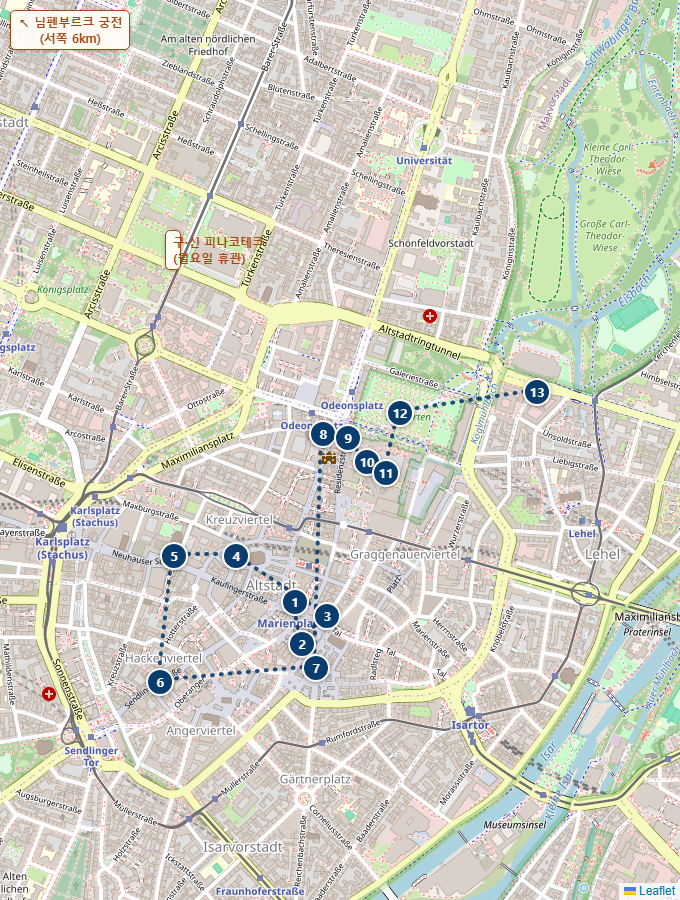
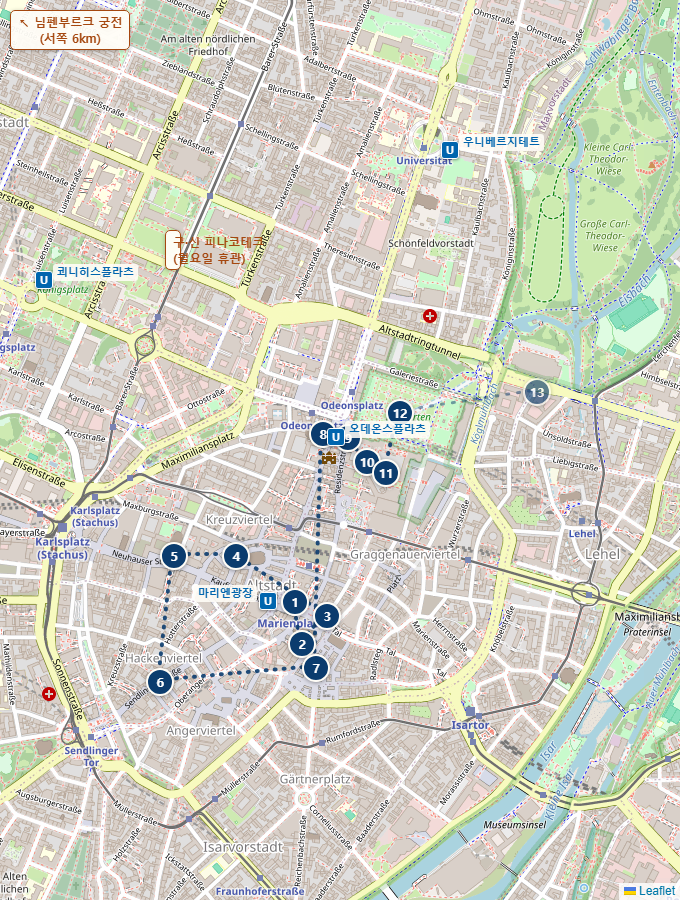
Fix Munich map callout clipping on narrow viewports, mark Englischer Garten as optional with a dashed final segment, add U6 station markers to the map, add stop-number badges to walking-loop landmark cards, bold Universität/Odeonsplatz on the U-Bahn diagram, and simplify the Oktoberfest transit note

diff --git a/germany-roadtrip-planner.html b/germany-roadtrip-planner.html
@@ -418,6 +418,7 @@
   .booking-note .cash-note{ margin-top:0.5rem; padding-top:0.5rem; border-top:1px dashed var(--warn); }
   .landmark-body{ padding:1rem 1.1rem 1.2rem; display:flex; flex-direction:column; gap:0.6rem; }
   .landmark-body h3{ margin:0; font-size:1.02rem; }
+  .stop-num{ display:inline-flex; align-items:center; justify-content:center; width:1.35rem; height:1.35rem; border-radius:50%; background:var(--route); color:#fff; font-size:0.72rem; font-weight:800; margin-right:0.4rem; vertical-align:middle; flex:none; }
   .landmark-desc{ margin:0; font-size:0.88rem; color:var(--ink-soft); }
   .landmark-meta{ font-size:0.8rem; color:var(--ink-soft); }
   .landmark-meta .landmark-price{ color:var(--route); font-weight:700; font-family:"SF Mono","Consolas",monospace; }
@@ -1749,9 +1750,9 @@ document.addEventListener('DOMContentLoaded', function(){
         <p class="cash-note"><b>MVV</b>(Münchner Verkehrs- und Tarifverbund)는 뮌헨 지하철·전철(S-Bahn)·트램·버스를 하나의 요금체계로 묶는 통합 운영기구입니다. <b>MVV 앱</b>은 그 공식 모바일 승차권 앱으로, 역 자판기 대신 휴대폰으로 티켓을 사는 용도입니다 — <a href="https://apps.apple.com/de/app/mvv-app/id388686726?platform=iphone" target="_blank" rel="noopener">iOS 다운로드</a> · <a href="https://play.google.com/store/apps/details?id=com.mdv.companion" target="_blank" rel="noopener">Android 다운로드</a></p>
       </div>
       <div style="grid-column:1/-1;margin:0.6rem 0 1.3rem;border:1px solid var(--line);border-radius:var(--radius);overflow:hidden;box-shadow:var(--shadow);background:#fff;">
-        <img src="images/muenchen_ubahn_u6.svg" alt="뮌헨 U-Bahn 노선도 — U6 라인과 Fröttmaning·마리엔광장·Goetheplatz 3개 역 강조 표시" loading="lazy" style="width:100%;height:auto;display:block;background:#fff;">      </div>
-      <p class="walk-map-note">🅿 P+R Fröttmaning 주차 후 U6 라인으로 마리엔광장 하차(주차 1일권 €1.50, 지하철 요금 별도) — 아래 명소는 모두 마리엔광장역에서 이어지는 도보권이며 카드 순서대로 이동하면 됩니다. 영국정원에서 도보 코스가 끝나니 U6 라인 우니베르지테트·오데온스플라츠역에서 대중교통으로 복귀하세요. 구 피나코테크·신 피나코테크는 도보권 밖(지도엔 위치만 표시)인 데다 오늘(월)은 둘 다 정기휴관이라 이번엔 들르지 않습니다</p>
-      <a class="walk-map-link" href="https://www.google.com/maps/dir/?api=1&travelmode=walking&origin=48.1370,11.5758&destination=48.1434,11.5859&waypoints=48.1367%2C11.5756%7C48.1374%2C11.5761%7C48.1387%2C11.5730%7C48.1387%2C11.5703%7C48.1351%2C11.5697%7C48.1355%2C11.5764%7C48.1422%2C11.5767%7C48.1421%2C11.5778%7C48.1414%2C11.5786%7C48.1411%2C11.5794%7C48.1428%2C11.5800" target="_blank" rel="noopener">📍 Google 지도로 도보 코스 보기(마리엔광장역 출발 → 영국정원 도착) · 총 약 4.4km · 도보 약 1시간</a>
+        <img src="images/muenchen_ubahn_u6.svg" alt="뮌헨 U-Bahn 노선도 — U6 라인과 Fröttmaning·우니베르지테트·오데온스플라츠·마리엔광장·Goetheplatz 5개 역 강조 표시" loading="lazy" style="width:100%;height:auto;display:block;background:#fff;">      </div>
+      <p class="walk-map-note">🅿 P+R Fröttmaning 주차 후 U6 라인으로 마리엔광장 하차(주차 1일권 €1.50, 지하철 요금 별도) — 아래 명소는 모두 마리엔광장역에서 이어지는 도보권이며 카드 순서대로 이동하면 됩니다. 실질적인 도보 코스는 호프가르텐에서 끝나고, 영국정원은 시간 되면 초입만 살짝 들르는 선택 코스입니다(생략해도 무방) — U6 라인 오데온스플라츠·우니베르지테트역에서 대중교통으로 복귀하세요. 구 피나코테크·신 피나코테크는 도보권 밖(지도엔 위치만 표시)인 데다 오늘(월)은 둘 다 정기휴관이라 이번엔 들르지 않습니다</p>
+      <a class="walk-map-link" href="https://www.google.com/maps/dir/?api=1&travelmode=walking&origin=48.1370,11.5758&destination=48.1428,11.5800&waypoints=48.1367%2C11.5756%7C48.1374%2C11.5761%7C48.1387%2C11.5730%7C48.1387%2C11.5703%7C48.1351%2C11.5697%7C48.1355%2C11.5764%7C48.1422%2C11.5767%7C48.1421%2C11.5778%7C48.1414%2C11.5786%7C48.1411%2C11.5794" target="_blank" rel="noopener">📍 Google 지도로 도보 코스 보기(마리엔광장역 출발 → 호프가르텐 도착) · 총 약 3.8km · 도보 약 49분</a>
       <div class="route-snapshot">
         <div class="route-snapshot-media">
           <img src="images/routes/muenchen.png" alt="뮌헨 도보 코스 지도 스냅샷" loading="lazy">
@@ -1769,14 +1770,14 @@ document.addEventListener('DOMContentLoaded', function(){
         <li><span class="rs-name">레지덴츠 & 보물관</span><span class="rs-seg">(200m, 3분)</span></li>
         <li><span class="rs-name">퀴비예 극장</span><span class="rs-seg">(80m, 1분)</span></li>
         <li><span class="rs-name">호프가르텐</span><span class="rs-seg">(150m, 2분)</span></li>
-        <li><span class="rs-name">영국정원</span><span class="rs-seg">(500m, 7분)</span></li>
+        <li><span class="rs-name">(선택) 영국정원(초입만 또는 생략 가능)</span><span class="rs-seg">(500m, 7분)</span></li>
         </ol>
-        <p style="grid-column:1/-1;font-size:0.78rem;color:var(--ink-soft);margin:0.5rem 0 0;">🚇 영국정원에서 도보로 우니베르지테트 또는 오데온스플라츠역 이동(약 5~7분), 이후 U6 라인 한 번으로 어디든 갈 수 있습니다 — 주차장(Fröttmaning) 복귀 시엔 그대로 진행 방향, 옥토버페스트(Goetheplatz)로 바로 이동 시엔 반대 방향으로 타면 마리엔광장에 내릴 필요 없이 곧장 갑니다(환승 없음)</p>
+        <p style="grid-column:1/-1;font-size:0.78rem;color:var(--ink-soft);margin:0.5rem 0 0;">🚇 호프가르텐(또는 영국정원까지 갔다면 그 자리)에서 도보로 <b>오데온스플라츠</b> 또는 <b>우니베르지테트</b>역 이동(약 3~7분) — 주차장(Fröttmaning) 복귀는 진행 방향 그대로 U6, 옥토버페스트 이동은 아래 "옥토버페스트 축제장 이동" 참고</p>
       </div>
       <div class="landmark-card">
         <img src="https://upload.wikimedia.org/wikipedia/commons/thumb/7/73/Rathaus_and_Marienplatz_from_Peterskirche_-_August_2006.jpg/500px-Rathaus_and_Marienplatz_from_Peterskirche_-_August_2006.jpg" alt="마리엔 광장 & 신시청(Neues Rathaus) 글로켄슈필" loading="lazy">
         <div class="landmark-body">
-        <h3>마리엔 광장 & 신시청(Neues Rathaus) 글로켄슈필</h3>
+        <h3><span class="stop-num">1</span>마리엔 광장 & 신시청(Neues Rathaus) 글로켄슈필</h3>
         <p class="landmark-desc">뮌헨 구시가 중심 광장이자 1867~1908년 지어진 네오고딕 양식 신시청이 있는 곳. 탑에서 매일 정오 열리는 글로켄슈필 인형극이 명물이며, 엘리베이터로 전망대까지 올라가면 마리엔광장과 구시가 전망을 볼 수 있습니다.</p>
         <div class="landmark-meta">글로켄슈필 공연 매일 11:00·12:00 (3–10월엔 17:00 추가) · 전망대 5–10월 매일 10:00–19:00(11–4월은 평일만 10:00–17:00) · <span class="landmark-price">광장 관람 무료, 전망대 성인 약 €6.50(온라인)/€7(현장)</span> · <a href="https://www.muenchen.de/en/sights/munich-glockenspiel" target="_blank" rel="noopener">홈페이지</a> · <a href="https://www.google.com/maps/search/?api=1&query=Neues+Rathaus+Muenchen" target="_blank" rel="noopener">지도</a></div>
         </div>
@@ -1784,7 +1785,7 @@ document.addEventListener('DOMContentLoaded', function(){
       <div class="landmark-card">
         <img src="https://commons.wikimedia.org/wiki/Special:FilePath/2350_-_M%C3%BCnchen_-_St_Peterskirche.JPG?width=500" alt="성 페터 교회" loading="lazy">
         <div class="landmark-body">
-        <h3>성 페터 교회(St. Peterskirche · Alter Peter)</h3>
+        <h3><span class="stop-num">2</span>성 페터 교회(St. Peterskirche · Alter Peter)</h3>
         <p class="landmark-desc">뮌헨에서 가장 오래된 교회. 306개 계단을 오르면 마리엔광장과 맑은 날엔 알프스까지 보이는 전망대가 나옵니다.</p>
         <div class="landmark-meta">교회 07:30–19:30 · <span class="landmark-price">본당 무료, 탑 전망대 €5</span> · <a href="https://www.google.com/maps/search/?api=1&query=St+Peterskirche+Muenchen" target="_blank" rel="noopener">지도</a></div>
         </div>
@@ -1792,7 +1793,7 @@ document.addEventListener('DOMContentLoaded', function(){
       <div class="landmark-card">
         <img src="https://commons.wikimedia.org/wiki/Special:FilePath/Altes_Rathaus_in_M%C3%BCnchen%2C_2023.jpg?width=500" alt="구시청" loading="lazy">
         <div class="landmark-body">
-        <h3>구시청(Altes Rathaus)</h3>
+        <h3><span class="stop-num">3</span>구시청(Altes Rathaus)</h3>
         <p class="landmark-desc">마리엔광장 동쪽에 있는 고딕 양식 옛 시청사. 지금은 탑 안에 장난감박물관이 들어서 있습니다.</p>
         <div class="landmark-meta">외관 상시 관람 · <span class="landmark-price">무료</span> · <a href="https://www.google.com/maps/search/?api=1&query=Altes+Rathaus+Muenchen" target="_blank" rel="noopener">지도</a></div>
         </div>
@@ -1808,7 +1809,7 @@ document.addEventListener('DOMContentLoaded', function(){
       <div class="landmark-card">
         <img src="https://commons.wikimedia.org/wiki/Special:FilePath/Frauenkirche_Munich_March_2013.JPG?width=500" alt="프라우엔교회" loading="lazy">
         <div class="landmark-body">
-        <h3>프라우엔교회(Frauenkirche)</h3>
+        <h3><span class="stop-num">4</span>프라우엔교회(Frauenkirche)</h3>
         <p class="landmark-desc">뮌헨의 상징인 두 개의 양파 지붕 탑이 특징인 후기 고딕 성당입니다.</p>
         <div class="landmark-meta">일반적으로 08:00–20:00 (일요일은 09:30부터, 미사 시간 제외) · <span class="landmark-price">본당 무료</span> · <a href="https://www.muenchner-dom.de" target="_blank" rel="noopener">홈페이지</a> · <a href="https://www.google.com/maps/search/?api=1&query=Frauenkirche+Muenchen" target="_blank" rel="noopener">지도</a></div>
         <div class="meaning-box"><span class="mb-label">👹 악마의 발자국(Teufelstritt)</span>1468년 건축가 외르크 폰 할스파흐는 자금을 대는 대신 "창문이 하나도 안 보이는 성당"을 지으라는 악마의 조건을 받아들였습니다. 완공 후 악마가 입구에서 안을 들여다보니 정말 기둥에 가려 창문이 하나도 안 보이자 기뻐하며 바닥을 발로 굴렀는데, 몇 걸음 더 들어가서야 창문들이 보이는 걸 깨닫고 속았다는 걸 알았다는 전설입니다. 그때 찍힌 검은 발자국 모양 자국이 지금도 입구 바닥 타일에 남아 있어 찾아볼 수 있습니다.</div>
@@ -1817,7 +1818,7 @@ document.addEventListener('DOMContentLoaded', function(){
       <div class="landmark-card">
         <img src="https://commons.wikimedia.org/wiki/Special:FilePath/St._Michael_-_Munich_-_011.JPG?width=500" alt="성 미하엘 교회" loading="lazy">
         <div class="landmark-body">
-        <h3>성 미하엘 교회(St. Michael)</h3>
+        <h3><span class="stop-num">5</span>성 미하엘 교회(St. Michael)</h3>
         <p class="landmark-desc">알프스 이북에서 가장 큰 르네상스 양식 교회. 지하 납골당엔 루트비히 2세도 안장돼 있습니다.</p>
         <div class="landmark-meta">월요일(오늘) 09:30–19:00(미사 시간 제외) · <span class="landmark-price">무료</span> · <a href="https://www.google.com/maps/search/?api=1&query=St+Michael+Kirche+Muenchen" target="_blank" rel="noopener">지도</a></div>
         </div>
@@ -1825,7 +1826,7 @@ document.addEventListener('DOMContentLoaded', function(){
       <div class="landmark-card">
         <img src="https://commons.wikimedia.org/wiki/Special:FilePath/Asamkirche_M%C3%BCnchen.jpg?width=500" alt="아잠 교회" loading="lazy">
         <div class="landmark-body">
-        <h3>아잠 교회(Asamkirche)</h3>
+        <h3><span class="stop-num">6</span>아잠 교회(Asamkirche)</h3>
         <p class="landmark-desc">아잠 형제가 사비로 지은 초호화 로코코 성당. 좁은 골목 안에 있어 놓치기 쉬운 숨은 명소입니다.</p>
         <div class="landmark-meta">토–목 09:00–19:00(11–3월은 ~18:00) · 금 13:00부터 · <span class="landmark-price">무료(기부 권장)</span> · <a href="https://www.google.com/maps/search/?api=1&query=Asamkirche+Muenchen" target="_blank" rel="noopener">지도</a></div>
         </div>
@@ -1833,7 +1834,7 @@ document.addEventListener('DOMContentLoaded', function(){
       <div class="landmark-card">
         <img src="https://commons.wikimedia.org/wiki/Special:FilePath/Muenchen_Viktualienmarkt.JPG?width=500" alt="빅투알리엔마르크트" loading="lazy">
         <div class="landmark-body">
-        <h3>빅투알리엔마르크트(Viktualienmarkt)</h3>
+        <h3><span class="stop-num">7</span>빅투알리엔마르크트(Viktualienmarkt)</h3>
         <p class="landmark-desc">1807년부터 이어진 뮌헨 최대 상설 식료품 시장. 노천 비어가든에서 맥주 한 잔 즐기기 좋습니다.</p>
         <div class="landmark-meta">월–토 08:00–20:00(매장별 상이) · 일요일 휴무 · <span class="landmark-price">구경 무료, 간식·맥주는 유료</span> · <a href="https://www.google.com/maps/search/?api=1&query=Viktualienmarkt+Muenchen" target="_blank" rel="noopener">지도</a></div>
         </div>
@@ -1841,7 +1842,7 @@ document.addEventListener('DOMContentLoaded', function(){
       <div class="landmark-card">
         <img src="https://commons.wikimedia.org/wiki/Special:FilePath/Theatinerkirche_M%C3%BCnchen_NR1.JPG?width=500" alt="테아티너 교회" loading="lazy">
         <div class="landmark-body">
-        <h3>테아티너 교회(Theatinerkirche)</h3>
+        <h3><span class="stop-num">8</span>테아티너 교회(Theatinerkirche)</h3>
         <p class="landmark-desc">노란 파사드가 인상적인 이탈리아 바로크 양식 성당. 오데온스플라츠 광장에 접해 있습니다.</p>
         <div class="landmark-meta">상시 개방(미사 시간 제외) · <span class="landmark-price">무료</span> · <a href="https://www.google.com/maps/search/?api=1&query=Theatinerkirche+Muenchen" target="_blank" rel="noopener">지도</a></div>
         </div>
@@ -1849,7 +1850,7 @@ document.addEventListener('DOMContentLoaded', function(){
       <div class="landmark-card">
         <img src="https://commons.wikimedia.org/wiki/Special:FilePath/Wrede%20Feldherrnhalle%20Muenchen-1.jpg?width=500" alt="펠트헤른할레" loading="lazy">
         <div class="landmark-body">
-        <h3>펠트헤른할레(Feldherrnhalle)</h3>
+        <h3><span class="stop-num">9</span>펠트헤른할레(Feldherrnhalle)</h3>
         <p class="landmark-desc">오데온스광장에 있는 개방형 회랑. 1841~44년 루트비히 1세가 피렌체의 로지아 데이 란치를 본떠 지었고, 바이에른 장군 틸리·브레데의 동상이 서 있습니다. 1923년 히틀러의 뮌헨 폭동(맥주홀 폭동) 행진이 경찰에 저지되며 유혈 충돌이 벌어진 역사적 현장이기도 합니다(나치 시절 세워진 추모 기념물은 종전 후 1945년 시민들이 철거).</p>
         <div class="landmark-meta">상시 개방(옥외 구조물) · <span class="landmark-price">무료</span> · <a href="https://www.google.com/maps/search/?api=1&query=Feldherrnhalle+Muenchen" target="_blank" rel="noopener">지도</a></div>
         <div class="landmark-parking">🅿 오퍼른가라게(Tiefgarage vor der Oper, Max-Joseph-Platz) · 시간당 €4.00(1일권 €32)</div>
@@ -1860,7 +1861,7 @@ document.addEventListener('DOMContentLoaded', function(){
         <div class="landmark-card">
         <img src="https://commons.wikimedia.org/wiki/Special:FilePath/M%C3%BCnchner_Residenz_Munich_2014_01.jpg?width=500" alt="뮌헨 레지덴츠 & 보물관" loading="lazy">
         <div class="landmark-body">
-        <h3>뮌헨 레지덴츠 & 보물관(Residenz & Schatzkammer)</h3>
+        <h3><span class="stop-num">10</span>뮌헨 레지덴츠 & 보물관(Residenz & Schatzkammer)</h3>
         <p class="landmark-desc">비텔스바흐 왕가가 5세기에 걸쳐 증축한 독일 최대 규모의 도심 궁전. 보물관엔 왕가의 보석·금공예품이 전시됩니다.</p>
         <div class="landmark-meta">3/28–10/19 09:00–18:00(마지막 입장 17:00) · 10/20–3/27 10:00–17:00(마지막 입장 16:00) · <span class="landmark-price">레지덴츠 박물관만 €10·대학생 €9 · 박물관+보물관 통합 €15·대학생 €13 · 박물관+보물관+퀴비예 극장 통합 €20·대학생 €16</span> · <a href="https://www.residenz-muenchen.de" target="_blank" rel="noopener">홈페이지</a> · <a href="https://www.google.com/maps/search/?api=1&query=Residenz+Muenchen" target="_blank" rel="noopener">지도</a></div>
         <div class="landmark-parking">🅿 오퍼른가라게(Tiefgarage vor der Oper, Max-Joseph-Platz) · 시간당 €4.00(1일권 €32)</div>
@@ -1869,7 +1870,7 @@ document.addEventListener('DOMContentLoaded', function(){
         <div class="landmark-card">
         <img src="https://commons.wikimedia.org/wiki/Special:FilePath/Cuvilli%C3%A9s-Theater_in_M%C3%BCnchner_Residenz.jpg?width=500" alt="퀴비예 극장" loading="lazy">
         <div class="landmark-body">
-        <h3>퀴비예 극장(Cuvilliés-Theater)</h3>
+        <h3><span class="stop-num">11</span>퀴비예 극장(Cuvilliés-Theater)</h3>
         <p class="landmark-desc">레지덴츠 안에 있는 화려한 로코코 궁정극장. 독일에서 가장 아름다운 로코코 극장으로 꼽힙니다.</p>
         <div class="landmark-meta">9/15–10/19 월–토 14:00–18:00, 일·공휴일 09:00–18:00(마지막 입장 1시간 전) · <span class="landmark-price">성인 €5 · 대학생 €4 · 레지덴츠 통합권 €20</span> · <a href="https://www.schloesser.bayern.de/englisch/palace/objects/mu_cuv.htm" target="_blank" rel="noopener">홈페이지</a> · <a href="https://www.google.com/maps/search/?api=1&query=Cuvillies+Theater+Muenchen" target="_blank" rel="noopener">지도</a></div>
         <div class="landmark-parking">🅿 오퍼른가라게(Tiefgarage vor der Oper, Max-Joseph-Platz) · 시간당 €4.00(1일권 €32)</div>
@@ -1879,7 +1880,7 @@ document.addEventListener('DOMContentLoaded', function(){
       <div class="landmark-card">
         <img src="https://commons.wikimedia.org/wiki/Special:FilePath/Muenchen_Hofgarten_und_die_Bayerische_Staatskanzlei.JPG?width=500" alt="호프가르텐" loading="lazy">
         <div class="landmark-body">
-        <h3>호프가르텐(Hofgarten)</h3>
+        <h3><span class="stop-num">12</span>호프가르텐(Hofgarten)</h3>
         <p class="landmark-desc">레지덴츠 바로 옆 이탈리아식 궁정 정원. 중앙의 디아나 신전(Dianatempel)이 포토스팟입니다.</p>
         <div class="landmark-meta">상시 개방 · <span class="landmark-price">무료</span> · <a href="https://www.google.com/maps/search/?api=1&query=Hofgarten+Muenchen" target="_blank" rel="noopener">지도</a></div>
         </div>
@@ -1887,8 +1888,8 @@ document.addEventListener('DOMContentLoaded', function(){
       <div class="landmark-card semi-wide">
         <img src="https://commons.wikimedia.org/wiki/Special:FilePath/Monopteros_Englischer_Garten_M%C3%BCnchen_01.jpg?width=500" alt="영국정원" loading="lazy">
         <div class="landmark-body">
-        <h3>영국정원(Englischer Garten)</h3>
-        <p class="landmark-desc">뉴욕 센트럴파크보다 넓은 유럽 최대급 도심 공원. 모노프테로스 신전과 서퍼들이 파도를 타는 아이스바흐 급류가 명물입니다. 남쪽 끝(하우스 데어 쿤스트 인근)이 호프가르텐에서 도보 약 7분 거리라 부담 없이 들를 수 있습니다.</p>
+        <h3><span class="stop-num">13</span>(선택) 영국정원(Englischer Garten)</h3>
+        <p class="landmark-desc">뉴욕 센트럴파크보다 넓은 유럽 최대급 도심 공원. 모노프테로스 신전과 서퍼들이 파도를 타는 아이스바흐 급류가 명물입니다. 남쪽 끝(하우스 데어 쿤스트 인근)이 호프가르텐에서 도보 약 7분 거리라 부담 없이 들를 수 있지만, 제대로 보려면 넓어서 시간이 걸리는 편 — 시간 빠듯하면 초입만 살짝 보거나 생략해도 무방합니다.</p>
         <div class="landmark-meta">상시 개방 · <span class="landmark-price">무료</span> · <a href="https://www.google.com/maps/search/?api=1&query=Englischer+Garten+Muenchen" target="_blank" rel="noopener">지도</a></div>
         <div class="landmark-parking">🅿 인근 노상 유료주차 위주 · 시간당 약 €2~4(구역별 상이) · 대중교통 권장(U3/U6 Giselastr.)</div>
         </div>
@@ -2014,7 +2015,7 @@ document.addEventListener('DOMContentLoaded', function(){
         </div>
       </div>
       </div>
-      <p class="walk-map-note"><b>마리엔광장 → 옥토버페스트 축제장 이동</b><br>1) 🚇 지하철: U6 라인 <b>마리엔광장</b> → <b>Goetheplatz</b>역(옥토버페스트·테레지엔비제 하차, 한 정거장 더 가면 <b>Poccistraße</b>역)<br>. 환승 없이 2~3개 역 · 약 3~5분 · 편도 €4.20(같은 요금구간이라 요금 동일)<br>. <b>Marienplatz</b> → Sendlinger Tor → <b>Goetheplatz</b><br>※ 역 → 축제장 입구: <b>Goetheplatz</b>역·<b>Poccistraße</b>역 모두 도보 약 8~10분(약 0.7~1km) — 테레지엔비제역보다 한산해서 혼잡할 때 대안으로 좋음<br><br>2) 🚶 도보: <b>마리엔광장</b>에서 지하철 없이 바로 걸어가는 것도 가능 · 약 2.5km · 30~35분 — 지하철비 아끼고 싶다면 선택지, 짐이 많거나 시간 빠듯하면 1) 이용 권장</p>
+      <p class="walk-map-note"><b>구시가 도보 코스 → 옥토버페스트 축제장 이동</b><br>🚇 지하철: U6 라인 <b>우니베르지테트</b> 또는 <b>오데온스플라츠</b>역 → <b>Goetheplatz</b>역(옥토버페스트·테레지엔비제 하차, 한 정거장 더 가면 <b>Poccistraße</b>역) — 마리엔광장에 내렸다 다시 탈 필요 없이 같은 방향으로 타면 곧장 도착<br>. 환승 없이 4~6개 역 · 약 8~10분 · 편도 €4.20(같은 요금구간이라 요금 동일)<br>. <b>우니베르지테트</b> → 오데온스플라츠 → 마리엔광장 → 젠들링거토어 → <b>Goetheplatz</b><br>※ 역 → 축제장 입구: <b>Goetheplatz</b>역·<b>Poccistraße</b>역 모두 도보 약 8~10분(약 0.7~1km) — 테레지엔비제역보다 한산해서 혼잡할 때 대안으로 좋음</p>
       <div class="landmark-card wide">
         <img src="https://upload.wikimedia.org/wikipedia/commons/thumb/d/db/Wiesn2006_Luftaufnahme.jpg/500px-Wiesn2006_Luftaufnahme.jpg" alt="테레지엔비제(Theresienwiese)" loading="lazy">
         <div class="landmark-body">

diff --git a/index.html b/index.html
@@ -418,6 +418,7 @@
   .booking-note .cash-note{ margin-top:0.5rem; padding-top:0.5rem; border-top:1px dashed var(--warn); }
   .landmark-body{ padding:1rem 1.1rem 1.2rem; display:flex; flex-direction:column; gap:0.6rem; }
   .landmark-body h3{ margin:0; font-size:1.02rem; }
+  .stop-num{ display:inline-flex; align-items:center; justify-content:center; width:1.35rem; height:1.35rem; border-radius:50%; background:var(--route); color:#fff; font-size:0.72rem; font-weight:800; margin-right:0.4rem; vertical-align:middle; flex:none; }
   .landmark-desc{ margin:0; font-size:0.88rem; color:var(--ink-soft); }
   .landmark-meta{ font-size:0.8rem; color:var(--ink-soft); }
   .landmark-meta .landmark-price{ color:var(--route); font-weight:700; font-family:"SF Mono","Consolas",monospace; }
@@ -1749,9 +1750,9 @@ document.addEventListener('DOMContentLoaded', function(){
         <p class="cash-note"><b>MVV</b>(Münchner Verkehrs- und Tarifverbund)는 뮌헨 지하철·전철(S-Bahn)·트램·버스를 하나의 요금체계로 묶는 통합 운영기구입니다. <b>MVV 앱</b>은 그 공식 모바일 승차권 앱으로, 역 자판기 대신 휴대폰으로 티켓을 사는 용도입니다 — <a href="https://apps.apple.com/de/app/mvv-app/id388686726?platform=iphone" target="_blank" rel="noopener">iOS 다운로드</a> · <a href="https://play.google.com/store/apps/details?id=com.mdv.companion" target="_blank" rel="noopener">Android 다운로드</a></p>
       </div>
       <div style="grid-column:1/-1;margin:0.6rem 0 1.3rem;border:1px solid var(--line);border-radius:var(--radius);overflow:hidden;box-shadow:var(--shadow);background:#fff;">
-        <img src="images/muenchen_ubahn_u6.svg" alt="뮌헨 U-Bahn 노선도 — U6 라인과 Fröttmaning·마리엔광장·Goetheplatz 3개 역 강조 표시" loading="lazy" style="width:100%;height:auto;display:block;background:#fff;">      </div>
-      <p class="walk-map-note">🅿 P+R Fröttmaning 주차 후 U6 라인으로 마리엔광장 하차(주차 1일권 €1.50, 지하철 요금 별도) — 아래 명소는 모두 마리엔광장역에서 이어지는 도보권이며 카드 순서대로 이동하면 됩니다. 영국정원에서 도보 코스가 끝나니 U6 라인 우니베르지테트·오데온스플라츠역에서 대중교통으로 복귀하세요. 구 피나코테크·신 피나코테크는 도보권 밖(지도엔 위치만 표시)인 데다 오늘(월)은 둘 다 정기휴관이라 이번엔 들르지 않습니다</p>
-      <a class="walk-map-link" href="https://www.google.com/maps/dir/?api=1&travelmode=walking&origin=48.1370,11.5758&destination=48.1434,11.5859&waypoints=48.1367%2C11.5756%7C48.1374%2C11.5761%7C48.1387%2C11.5730%7C48.1387%2C11.5703%7C48.1351%2C11.5697%7C48.1355%2C11.5764%7C48.1422%2C11.5767%7C48.1421%2C11.5778%7C48.1414%2C11.5786%7C48.1411%2C11.5794%7C48.1428%2C11.5800" target="_blank" rel="noopener">📍 Google 지도로 도보 코스 보기(마리엔광장역 출발 → 영국정원 도착) · 총 약 4.4km · 도보 약 1시간</a>
+        <img src="images/muenchen_ubahn_u6.svg" alt="뮌헨 U-Bahn 노선도 — U6 라인과 Fröttmaning·우니베르지테트·오데온스플라츠·마리엔광장·Goetheplatz 5개 역 강조 표시" loading="lazy" style="width:100%;height:auto;display:block;background:#fff;">      </div>
+      <p class="walk-map-note">🅿 P+R Fröttmaning 주차 후 U6 라인으로 마리엔광장 하차(주차 1일권 €1.50, 지하철 요금 별도) — 아래 명소는 모두 마리엔광장역에서 이어지는 도보권이며 카드 순서대로 이동하면 됩니다. 실질적인 도보 코스는 호프가르텐에서 끝나고, 영국정원은 시간 되면 초입만 살짝 들르는 선택 코스입니다(생략해도 무방) — U6 라인 오데온스플라츠·우니베르지테트역에서 대중교통으로 복귀하세요. 구 피나코테크·신 피나코테크는 도보권 밖(지도엔 위치만 표시)인 데다 오늘(월)은 둘 다 정기휴관이라 이번엔 들르지 않습니다</p>
+      <a class="walk-map-link" href="https://www.google.com/maps/dir/?api=1&travelmode=walking&origin=48.1370,11.5758&destination=48.1428,11.5800&waypoints=48.1367%2C11.5756%7C48.1374%2C11.5761%7C48.1387%2C11.5730%7C48.1387%2C11.5703%7C48.1351%2C11.5697%7C48.1355%2C11.5764%7C48.1422%2C11.5767%7C48.1421%2C11.5778%7C48.1414%2C11.5786%7C48.1411%2C11.5794" target="_blank" rel="noopener">📍 Google 지도로 도보 코스 보기(마리엔광장역 출발 → 호프가르텐 도착) · 총 약 3.8km · 도보 약 49분</a>
       <div class="route-snapshot">
         <div class="route-snapshot-media">
           <img src="images/routes/muenchen.png" alt="뮌헨 도보 코스 지도 스냅샷" loading="lazy">
@@ -1769,14 +1770,14 @@ document.addEventListener('DOMContentLoaded', function(){
         <li><span class="rs-name">레지덴츠 & 보물관</span><span class="rs-seg">(200m, 3분)</span></li>
         <li><span class="rs-name">퀴비예 극장</span><span class="rs-seg">(80m, 1분)</span></li>
         <li><span class="rs-name">호프가르텐</span><span class="rs-seg">(150m, 2분)</span></li>
-        <li><span class="rs-name">영국정원</span><span class="rs-seg">(500m, 7분)</span></li>
+        <li><span class="rs-name">(선택) 영국정원(초입만 또는 생략 가능)</span><span class="rs-seg">(500m, 7분)</span></li>
         </ol>
-        <p style="grid-column:1/-1;font-size:0.78rem;color:var(--ink-soft);margin:0.5rem 0 0;">🚇 영국정원에서 도보로 우니베르지테트 또는 오데온스플라츠역 이동(약 5~7분), 이후 U6 라인 한 번으로 어디든 갈 수 있습니다 — 주차장(Fröttmaning) 복귀 시엔 그대로 진행 방향, 옥토버페스트(Goetheplatz)로 바로 이동 시엔 반대 방향으로 타면 마리엔광장에 내릴 필요 없이 곧장 갑니다(환승 없음)</p>
+        <p style="grid-column:1/-1;font-size:0.78rem;color:var(--ink-soft);margin:0.5rem 0 0;">🚇 호프가르텐(또는 영국정원까지 갔다면 그 자리)에서 도보로 <b>오데온스플라츠</b> 또는 <b>우니베르지테트</b>역 이동(약 3~7분) — 주차장(Fröttmaning) 복귀는 진행 방향 그대로 U6, 옥토버페스트 이동은 아래 "옥토버페스트 축제장 이동" 참고</p>
       </div>
       <div class="landmark-card">
         <img src="https://upload.wikimedia.org/wikipedia/commons/thumb/7/73/Rathaus_and_Marienplatz_from_Peterskirche_-_August_2006.jpg/500px-Rathaus_and_Marienplatz_from_Peterskirche_-_August_2006.jpg" alt="마리엔 광장 & 신시청(Neues Rathaus) 글로켄슈필" loading="lazy">
         <div class="landmark-body">
-        <h3>마리엔 광장 & 신시청(Neues Rathaus) 글로켄슈필</h3>
+        <h3><span class="stop-num">1</span>마리엔 광장 & 신시청(Neues Rathaus) 글로켄슈필</h3>
         <p class="landmark-desc">뮌헨 구시가 중심 광장이자 1867~1908년 지어진 네오고딕 양식 신시청이 있는 곳. 탑에서 매일 정오 열리는 글로켄슈필 인형극이 명물이며, 엘리베이터로 전망대까지 올라가면 마리엔광장과 구시가 전망을 볼 수 있습니다.</p>
         <div class="landmark-meta">글로켄슈필 공연 매일 11:00·12:00 (3–10월엔 17:00 추가) · 전망대 5–10월 매일 10:00–19:00(11–4월은 평일만 10:00–17:00) · <span class="landmark-price">광장 관람 무료, 전망대 성인 약 €6.50(온라인)/€7(현장)</span> · <a href="https://www.muenchen.de/en/sights/munich-glockenspiel" target="_blank" rel="noopener">홈페이지</a> · <a href="https://www.google.com/maps/search/?api=1&query=Neues+Rathaus+Muenchen" target="_blank" rel="noopener">지도</a></div>
         </div>
@@ -1784,7 +1785,7 @@ document.addEventListener('DOMContentLoaded', function(){
       <div class="landmark-card">
         <img src="https://commons.wikimedia.org/wiki/Special:FilePath/2350_-_M%C3%BCnchen_-_St_Peterskirche.JPG?width=500" alt="성 페터 교회" loading="lazy">
         <div class="landmark-body">
-        <h3>성 페터 교회(St. Peterskirche · Alter Peter)</h3>
+        <h3><span class="stop-num">2</span>성 페터 교회(St. Peterskirche · Alter Peter)</h3>
         <p class="landmark-desc">뮌헨에서 가장 오래된 교회. 306개 계단을 오르면 마리엔광장과 맑은 날엔 알프스까지 보이는 전망대가 나옵니다.</p>
         <div class="landmark-meta">교회 07:30–19:30 · <span class="landmark-price">본당 무료, 탑 전망대 €5</span> · <a href="https://www.google.com/maps/search/?api=1&query=St+Peterskirche+Muenchen" target="_blank" rel="noopener">지도</a></div>
         </div>
@@ -1792,7 +1793,7 @@ document.addEventListener('DOMContentLoaded', function(){
       <div class="landmark-card">
         <img src="https://commons.wikimedia.org/wiki/Special:FilePath/Altes_Rathaus_in_M%C3%BCnchen%2C_2023.jpg?width=500" alt="구시청" loading="lazy">
         <div class="landmark-body">
-        <h3>구시청(Altes Rathaus)</h3>
+        <h3><span class="stop-num">3</span>구시청(Altes Rathaus)</h3>
         <p class="landmark-desc">마리엔광장 동쪽에 있는 고딕 양식 옛 시청사. 지금은 탑 안에 장난감박물관이 들어서 있습니다.</p>
         <div class="landmark-meta">외관 상시 관람 · <span class="landmark-price">무료</span> · <a href="https://www.google.com/maps/search/?api=1&query=Altes+Rathaus+Muenchen" target="_blank" rel="noopener">지도</a></div>
         </div>
@@ -1808,7 +1809,7 @@ document.addEventListener('DOMContentLoaded', function(){
       <div class="landmark-card">
         <img src="https://commons.wikimedia.org/wiki/Special:FilePath/Frauenkirche_Munich_March_2013.JPG?width=500" alt="프라우엔교회" loading="lazy">
         <div class="landmark-body">
-        <h3>프라우엔교회(Frauenkirche)</h3>
+        <h3><span class="stop-num">4</span>프라우엔교회(Frauenkirche)</h3>
         <p class="landmark-desc">뮌헨의 상징인 두 개의 양파 지붕 탑이 특징인 후기 고딕 성당입니다.</p>
         <div class="landmark-meta">일반적으로 08:00–20:00 (일요일은 09:30부터, 미사 시간 제외) · <span class="landmark-price">본당 무료</span> · <a href="https://www.muenchner-dom.de" target="_blank" rel="noopener">홈페이지</a> · <a href="https://www.google.com/maps/search/?api=1&query=Frauenkirche+Muenchen" target="_blank" rel="noopener">지도</a></div>
         <div class="meaning-box"><span class="mb-label">👹 악마의 발자국(Teufelstritt)</span>1468년 건축가 외르크 폰 할스파흐는 자금을 대는 대신 "창문이 하나도 안 보이는 성당"을 지으라는 악마의 조건을 받아들였습니다. 완공 후 악마가 입구에서 안을 들여다보니 정말 기둥에 가려 창문이 하나도 안 보이자 기뻐하며 바닥을 발로 굴렀는데, 몇 걸음 더 들어가서야 창문들이 보이는 걸 깨닫고 속았다는 걸 알았다는 전설입니다. 그때 찍힌 검은 발자국 모양 자국이 지금도 입구 바닥 타일에 남아 있어 찾아볼 수 있습니다.</div>
@@ -1817,7 +1818,7 @@ document.addEventListener('DOMContentLoaded', function(){
       <div class="landmark-card">
         <img src="https://commons.wikimedia.org/wiki/Special:FilePath/St._Michael_-_Munich_-_011.JPG?width=500" alt="성 미하엘 교회" loading="lazy">
         <div class="landmark-body">
-        <h3>성 미하엘 교회(St. Michael)</h3>
+        <h3><span class="stop-num">5</span>성 미하엘 교회(St. Michael)</h3>
         <p class="landmark-desc">알프스 이북에서 가장 큰 르네상스 양식 교회. 지하 납골당엔 루트비히 2세도 안장돼 있습니다.</p>
         <div class="landmark-meta">월요일(오늘) 09:30–19:00(미사 시간 제외) · <span class="landmark-price">무료</span> · <a href="https://www.google.com/maps/search/?api=1&query=St+Michael+Kirche+Muenchen" target="_blank" rel="noopener">지도</a></div>
         </div>
@@ -1825,7 +1826,7 @@ document.addEventListener('DOMContentLoaded', function(){
       <div class="landmark-card">
         <img src="https://commons.wikimedia.org/wiki/Special:FilePath/Asamkirche_M%C3%BCnchen.jpg?width=500" alt="아잠 교회" loading="lazy">
         <div class="landmark-body">
-        <h3>아잠 교회(Asamkirche)</h3>
+        <h3><span class="stop-num">6</span>아잠 교회(Asamkirche)</h3>
         <p class="landmark-desc">아잠 형제가 사비로 지은 초호화 로코코 성당. 좁은 골목 안에 있어 놓치기 쉬운 숨은 명소입니다.</p>
         <div class="landmark-meta">토–목 09:00–19:00(11–3월은 ~18:00) · 금 13:00부터 · <span class="landmark-price">무료(기부 권장)</span> · <a href="https://www.google.com/maps/search/?api=1&query=Asamkirche+Muenchen" target="_blank" rel="noopener">지도</a></div>
         </div>
@@ -1833,7 +1834,7 @@ document.addEventListener('DOMContentLoaded', function(){
       <div class="landmark-card">
         <img src="https://commons.wikimedia.org/wiki/Special:FilePath/Muenchen_Viktualienmarkt.JPG?width=500" alt="빅투알리엔마르크트" loading="lazy">
         <div class="landmark-body">
-        <h3>빅투알리엔마르크트(Viktualienmarkt)</h3>
+        <h3><span class="stop-num">7</span>빅투알리엔마르크트(Viktualienmarkt)</h3>
         <p class="landmark-desc">1807년부터 이어진 뮌헨 최대 상설 식료품 시장. 노천 비어가든에서 맥주 한 잔 즐기기 좋습니다.</p>
         <div class="landmark-meta">월–토 08:00–20:00(매장별 상이) · 일요일 휴무 · <span class="landmark-price">구경 무료, 간식·맥주는 유료</span> · <a href="https://www.google.com/maps/search/?api=1&query=Viktualienmarkt+Muenchen" target="_blank" rel="noopener">지도</a></div>
         </div>
@@ -1841,7 +1842,7 @@ document.addEventListener('DOMContentLoaded', function(){
       <div class="landmark-card">
         <img src="https://commons.wikimedia.org/wiki/Special:FilePath/Theatinerkirche_M%C3%BCnchen_NR1.JPG?width=500" alt="테아티너 교회" loading="lazy">
         <div class="landmark-body">
-        <h3>테아티너 교회(Theatinerkirche)</h3>
+        <h3><span class="stop-num">8</span>테아티너 교회(Theatinerkirche)</h3>
         <p class="landmark-desc">노란 파사드가 인상적인 이탈리아 바로크 양식 성당. 오데온스플라츠 광장에 접해 있습니다.</p>
         <div class="landmark-meta">상시 개방(미사 시간 제외) · <span class="landmark-price">무료</span> · <a href="https://www.google.com/maps/search/?api=1&query=Theatinerkirche+Muenchen" target="_blank" rel="noopener">지도</a></div>
         </div>
@@ -1849,7 +1850,7 @@ document.addEventListener('DOMContentLoaded', function(){
       <div class="landmark-card">
         <img src="https://commons.wikimedia.org/wiki/Special:FilePath/Wrede%20Feldherrnhalle%20Muenchen-1.jpg?width=500" alt="펠트헤른할레" loading="lazy">
         <div class="landmark-body">
-        <h3>펠트헤른할레(Feldherrnhalle)</h3>
+        <h3><span class="stop-num">9</span>펠트헤른할레(Feldherrnhalle)</h3>
         <p class="landmark-desc">오데온스광장에 있는 개방형 회랑. 1841~44년 루트비히 1세가 피렌체의 로지아 데이 란치를 본떠 지었고, 바이에른 장군 틸리·브레데의 동상이 서 있습니다. 1923년 히틀러의 뮌헨 폭동(맥주홀 폭동) 행진이 경찰에 저지되며 유혈 충돌이 벌어진 역사적 현장이기도 합니다(나치 시절 세워진 추모 기념물은 종전 후 1945년 시민들이 철거).</p>
         <div class="landmark-meta">상시 개방(옥외 구조물) · <span class="landmark-price">무료</span> · <a href="https://www.google.com/maps/search/?api=1&query=Feldherrnhalle+Muenchen" target="_blank" rel="noopener">지도</a></div>
         <div class="landmark-parking">🅿 오퍼른가라게(Tiefgarage vor der Oper, Max-Joseph-Platz) · 시간당 €4.00(1일권 €32)</div>
@@ -1860,7 +1861,7 @@ document.addEventListener('DOMContentLoaded', function(){
         <div class="landmark-card">
         <img src="https://commons.wikimedia.org/wiki/Special:FilePath/M%C3%BCnchner_Residenz_Munich_2014_01.jpg?width=500" alt="뮌헨 레지덴츠 & 보물관" loading="lazy">
         <div class="landmark-body">
-        <h3>뮌헨 레지덴츠 & 보물관(Residenz & Schatzkammer)</h3>
+        <h3><span class="stop-num">10</span>뮌헨 레지덴츠 & 보물관(Residenz & Schatzkammer)</h3>
         <p class="landmark-desc">비텔스바흐 왕가가 5세기에 걸쳐 증축한 독일 최대 규모의 도심 궁전. 보물관엔 왕가의 보석·금공예품이 전시됩니다.</p>
         <div class="landmark-meta">3/28–10/19 09:00–18:00(마지막 입장 17:00) · 10/20–3/27 10:00–17:00(마지막 입장 16:00) · <span class="landmark-price">레지덴츠 박물관만 €10·대학생 €9 · 박물관+보물관 통합 €15·대학생 €13 · 박물관+보물관+퀴비예 극장 통합 €20·대학생 €16</span> · <a href="https://www.residenz-muenchen.de" target="_blank" rel="noopener">홈페이지</a> · <a href="https://www.google.com/maps/search/?api=1&query=Residenz+Muenchen" target="_blank" rel="noopener">지도</a></div>
         <div class="landmark-parking">🅿 오퍼른가라게(Tiefgarage vor der Oper, Max-Joseph-Platz) · 시간당 €4.00(1일권 €32)</div>
@@ -1869,7 +1870,7 @@ document.addEventListener('DOMContentLoaded', function(){
         <div class="landmark-card">
         <img src="https://commons.wikimedia.org/wiki/Special:FilePath/Cuvilli%C3%A9s-Theater_in_M%C3%BCnchner_Residenz.jpg?width=500" alt="퀴비예 극장" loading="lazy">
         <div class="landmark-body">
-        <h3>퀴비예 극장(Cuvilliés-Theater)</h3>
+        <h3><span class="stop-num">11</span>퀴비예 극장(Cuvilliés-Theater)</h3>
         <p class="landmark-desc">레지덴츠 안에 있는 화려한 로코코 궁정극장. 독일에서 가장 아름다운 로코코 극장으로 꼽힙니다.</p>
         <div class="landmark-meta">9/15–10/19 월–토 14:00–18:00, 일·공휴일 09:00–18:00(마지막 입장 1시간 전) · <span class="landmark-price">성인 €5 · 대학생 €4 · 레지덴츠 통합권 €20</span> · <a href="https://www.schloesser.bayern.de/englisch/palace/objects/mu_cuv.htm" target="_blank" rel="noopener">홈페이지</a> · <a href="https://www.google.com/maps/search/?api=1&query=Cuvillies+Theater+Muenchen" target="_blank" rel="noopener">지도</a></div>
         <div class="landmark-parking">🅿 오퍼른가라게(Tiefgarage vor der Oper, Max-Joseph-Platz) · 시간당 €4.00(1일권 €32)</div>
@@ -1879,7 +1880,7 @@ document.addEventListener('DOMContentLoaded', function(){
       <div class="landmark-card">
         <img src="https://commons.wikimedia.org/wiki/Special:FilePath/Muenchen_Hofgarten_und_die_Bayerische_Staatskanzlei.JPG?width=500" alt="호프가르텐" loading="lazy">
         <div class="landmark-body">
-        <h3>호프가르텐(Hofgarten)</h3>
+        <h3><span class="stop-num">12</span>호프가르텐(Hofgarten)</h3>
         <p class="landmark-desc">레지덴츠 바로 옆 이탈리아식 궁정 정원. 중앙의 디아나 신전(Dianatempel)이 포토스팟입니다.</p>
         <div class="landmark-meta">상시 개방 · <span class="landmark-price">무료</span> · <a href="https://www.google.com/maps/search/?api=1&query=Hofgarten+Muenchen" target="_blank" rel="noopener">지도</a></div>
         </div>
@@ -1887,8 +1888,8 @@ document.addEventListener('DOMContentLoaded', function(){
       <div class="landmark-card semi-wide">
         <img src="https://commons.wikimedia.org/wiki/Special:FilePath/Monopteros_Englischer_Garten_M%C3%BCnchen_01.jpg?width=500" alt="영국정원" loading="lazy">
         <div class="landmark-body">
-        <h3>영국정원(Englischer Garten)</h3>
-        <p class="landmark-desc">뉴욕 센트럴파크보다 넓은 유럽 최대급 도심 공원. 모노프테로스 신전과 서퍼들이 파도를 타는 아이스바흐 급류가 명물입니다. 남쪽 끝(하우스 데어 쿤스트 인근)이 호프가르텐에서 도보 약 7분 거리라 부담 없이 들를 수 있습니다.</p>
+        <h3><span class="stop-num">13</span>(선택) 영국정원(Englischer Garten)</h3>
+        <p class="landmark-desc">뉴욕 센트럴파크보다 넓은 유럽 최대급 도심 공원. 모노프테로스 신전과 서퍼들이 파도를 타는 아이스바흐 급류가 명물입니다. 남쪽 끝(하우스 데어 쿤스트 인근)이 호프가르텐에서 도보 약 7분 거리라 부담 없이 들를 수 있지만, 제대로 보려면 넓어서 시간이 걸리는 편 — 시간 빠듯하면 초입만 살짝 보거나 생략해도 무방합니다.</p>
         <div class="landmark-meta">상시 개방 · <span class="landmark-price">무료</span> · <a href="https://www.google.com/maps/search/?api=1&query=Englischer+Garten+Muenchen" target="_blank" rel="noopener">지도</a></div>
         <div class="landmark-parking">🅿 인근 노상 유료주차 위주 · 시간당 약 €2~4(구역별 상이) · 대중교통 권장(U3/U6 Giselastr.)</div>
         </div>
@@ -2014,7 +2015,7 @@ document.addEventListener('DOMContentLoaded', function(){
         </div>
       </div>
       </div>
-      <p class="walk-map-note"><b>마리엔광장 → 옥토버페스트 축제장 이동</b><br>1) 🚇 지하철: U6 라인 <b>마리엔광장</b> → <b>Goetheplatz</b>역(옥토버페스트·테레지엔비제 하차, 한 정거장 더 가면 <b>Poccistraße</b>역)<br>. 환승 없이 2~3개 역 · 약 3~5분 · 편도 €4.20(같은 요금구간이라 요금 동일)<br>. <b>Marienplatz</b> → Sendlinger Tor → <b>Goetheplatz</b><br>※ 역 → 축제장 입구: <b>Goetheplatz</b>역·<b>Poccistraße</b>역 모두 도보 약 8~10분(약 0.7~1km) — 테레지엔비제역보다 한산해서 혼잡할 때 대안으로 좋음<br><br>2) 🚶 도보: <b>마리엔광장</b>에서 지하철 없이 바로 걸어가는 것도 가능 · 약 2.5km · 30~35분 — 지하철비 아끼고 싶다면 선택지, 짐이 많거나 시간 빠듯하면 1) 이용 권장</p>
+      <p class="walk-map-note"><b>구시가 도보 코스 → 옥토버페스트 축제장 이동</b><br>🚇 지하철: U6 라인 <b>우니베르지테트</b> 또는 <b>오데온스플라츠</b>역 → <b>Goetheplatz</b>역(옥토버페스트·테레지엔비제 하차, 한 정거장 더 가면 <b>Poccistraße</b>역) — 마리엔광장에 내렸다 다시 탈 필요 없이 같은 방향으로 타면 곧장 도착<br>. 환승 없이 4~6개 역 · 약 8~10분 · 편도 €4.20(같은 요금구간이라 요금 동일)<br>. <b>우니베르지테트</b> → 오데온스플라츠 → 마리엔광장 → 젠들링거토어 → <b>Goetheplatz</b><br>※ 역 → 축제장 입구: <b>Goetheplatz</b>역·<b>Poccistraße</b>역 모두 도보 약 8~10분(약 0.7~1km) — 테레지엔비제역보다 한산해서 혼잡할 때 대안으로 좋음</p>
       <div class="landmark-card wide">
         <img src="https://upload.wikimedia.org/wikipedia/commons/thumb/d/db/Wiesn2006_Luftaufnahme.jpg/500px-Wiesn2006_Luftaufnahme.jpg" alt="테레지엔비제(Theresienwiese)" loading="lazy">
         <div class="landmark-body">
